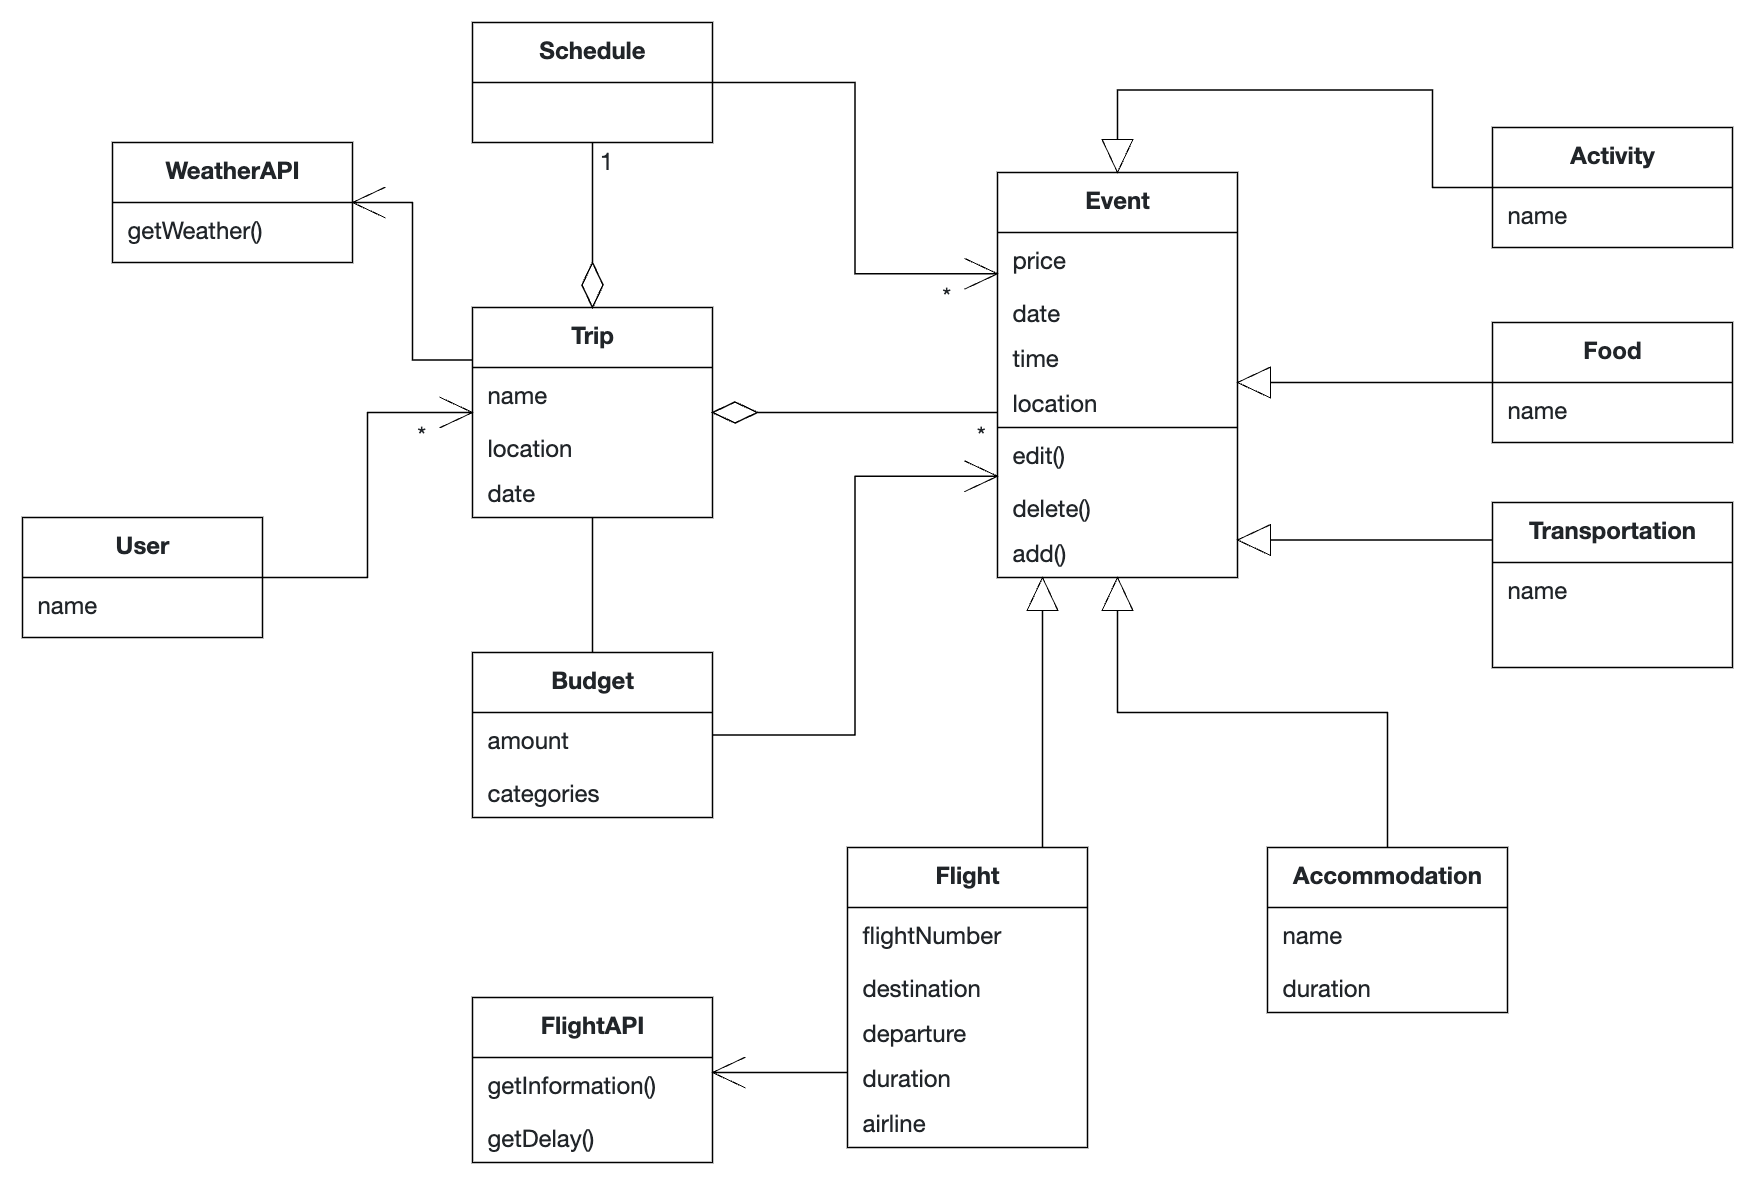
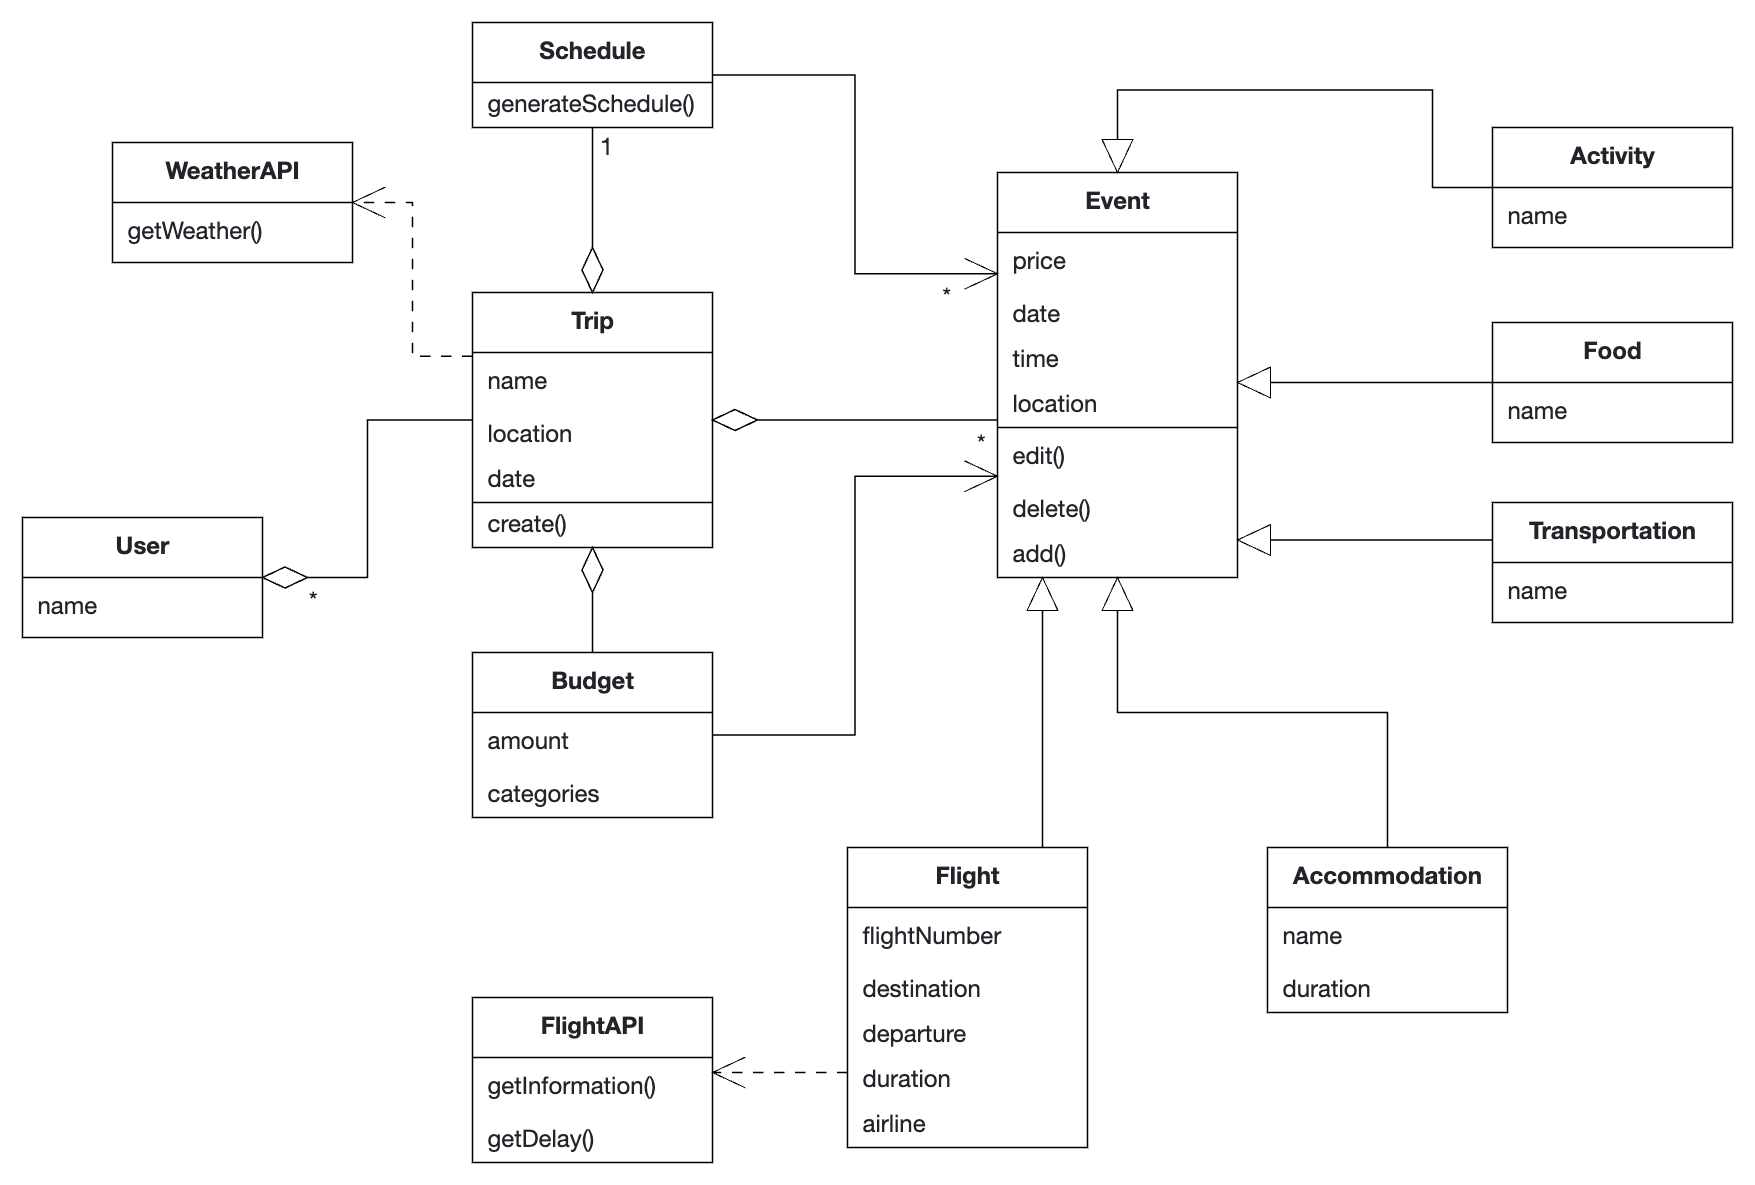
Fix UML and change Backlog, add small System Design

diff --git a/README.md b/README.md
@@ -25,7 +25,7 @@ Until the deadline all of your PRs **need to be merged** and your final app **ne
 
 ## Problem Statement (max. 500 words)
 
-**TripWise**
+**TripPlanner**
 
 Budgeting a planned or unplanned trip can be a hard time as many costs are not on your mind when planning. Therefore I would like an App that manages trips and vacations. It should focus on budgeting and time management, where the most important points like flight, accommodation, transport, food and activities are all corelated in the budget and schedule feature. 
 
@@ -53,16 +53,17 @@ The app should:
 
 ## System Design
 
-TODO: Include a system design overview describing your application.
+![UML](/images/SystemDesign.png)
+
 
 ## Product Backlog
 
-| Version | Task                | Done |
-| - | ------------------------- | ---- |
-| 1 | Create Trip               |      |
-| 2 | Add Location and Time     |      |
-| 3 | Add Budget                |      |
-| 3 | Add Events                |      |
-| 3 | See Schedule of Trip      |      |
-| 3 | Fetch FlightAPI           |      |
-| 3 | Fetch WeatherAPI          |      |
+| Version | Task                                | Done |
+| - | ----------------------------------------- | ---- |
+| 1 | Create UI for Trip creation               |      |
+| 2 | Add Location and Time to Trip             |      |
+| 3 | Add Budget UI                             |      |
+| 3 | Add Event creation UI                     |      |
+| 3 | See Schedule of Trip                      |      |
+| 3 | Fetch FlightAPI                           |      |
+| 3 | Fetch WeatherAPI                          |      |
